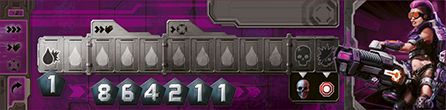
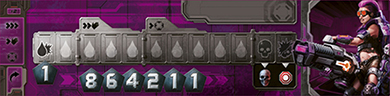
GUI smaller size

diff --git a/src/main/java/adrenaline/VirtualClientGUI.java b/src/main/java/adrenaline/VirtualClientGUI.java
@@ -41,7 +41,7 @@ public class VirtualClientGUI {
     ImageIcon imageB;
     Font font;
 
-    JTextField textField= new JTextField(42);
+    JTextField textField= new JTextField(30);
     JTextField messageTextField= new JTextField(42);
 
     public VirtualClientGUI(String serverAddress) {
@@ -61,10 +61,10 @@ public class VirtualClientGUI {
         Insets insets = frame.getContentPane().getInsets();
         textField.setSize(10,20);
         Dimension size = textField.getPreferredSize();
-        textField.setBackground(Color.black);
+        textField.setBackground(Color.DARK_GRAY);
         textField.setForeground(Color.WHITE);
         textField.setBorder(javax.swing.BorderFactory.createEmptyBorder());
-        textField.setBounds(1040 + insets.left, insets.top + 625,
+        textField.setBounds(790 + insets.left, insets.top + 505,
                 size.width, size.height);
         frame.getContentPane().add(textField, BorderLayout.SOUTH);
         textField.setEditable(true);
@@ -83,7 +83,7 @@ public class VirtualClientGUI {
         messageTextField.setForeground(Color.WHITE);
         messageTextField.setBackground(Color.BLACK);
         Insets insets = frame.getContentPane().getInsets();
-        messageTextField.setBounds(1040 + insets.left, insets.top + 605,
+        messageTextField.setBounds(790 + insets.left, insets.top + 485,
                 size.width, size.height);
         frame.getContentPane().add(messageTextField, BorderLayout.SOUTH);
         messageTextField.setBorder(javax.swing.BorderFactory.createEmptyBorder());
@@ -92,10 +92,10 @@ public class VirtualClientGUI {
     }
     public void setStartImage(){
         labelE = new JLabel(new ImageIcon("src\\main\\resources\\images\\adrenalin.jpg"), SwingConstants.CENTER);
-        labelE.setSize(1200,355);
+        labelE.setSize(879,260);
         Dimension size = labelE.getPreferredSize();
         Insets insets = frame.getContentPane().getInsets();
-        labelE.setBounds(150 + insets.left, insets.top + 250,
+        labelE.setBounds(216 + insets.left, insets.top + 220,
                 size.width, size.height);
         frame.getContentPane().add(labelE);
         labelE.repaint();
@@ -242,19 +242,19 @@ public class VirtualClientGUI {
             }
             playerBoards[index] = new JLabel(image, SwingConstants.CENTER);
 
-            playerBoards[index].setSize(446, 110);
+            playerBoards[index].setSize(390, 96);
 
             size = playerBoards[index].getPreferredSize();
-            playerBoards[index].setBounds(1054 + insets.left, insets.top + (index)*image.getIconHeight() + 250,
+            playerBoards[index].setBounds(922 + insets.left, insets.top + (index)*image.getIconHeight() + 220,
                     size.width, size.height);
             frame.getContentPane().add(playerBoards[index]);
             playerBoards[index].repaint();
             System.out.println(playerBoards[index].getLocation());
         }
         labelC = new JLabel(new ImageIcon("src\\main\\resources\\images\\area.jpg"), SwingConstants.CENTER);
-        labelC.setSize(446,250);
+        labelC.setSize(390,219);
         size = labelC.getPreferredSize();
-        labelC.setBounds(1054 + insets.left, insets.bottom,
+        labelC.setBounds(922 + insets.left, insets.bottom,
                 size.width, size.height);
         frame.getContentPane().add(labelC);
         labelC.repaint();
@@ -262,15 +262,15 @@ public class VirtualClientGUI {
 
         if(numberOfCommas!=4){
             labelD = new JLabel(new ImageIcon("src\\main\\resources\\images\\area.jpg"), SwingConstants.CENTER);
-            labelD.setSize(446,250);
+            labelD.setSize(390,219);
             size = labelC.getPreferredSize();
-            labelD.setBounds(1054 + insets.left, 550 + insets.top,
+            labelD.setBounds(922 + insets.left, 481 + insets.top,
                     size.width, size.height);
             frame.getContentPane().add(labelD);
             labelD.repaint();
         }
 
-        frame.setSize(1500 + frame.getInsets().right + frame.getInsets().left,800+ frame.getInsets().top+ frame.getInsets().bottom);
+        frame.setSize(1312 + frame.getInsets().right + frame.getInsets().left,700+ frame.getInsets().top+ frame.getInsets().bottom);
         frame.revalidate();
         frame.repaint();
         frame.setVisible(true);
@@ -297,14 +297,14 @@ public class VirtualClientGUI {
             playerNames[index].setBorder(javax.swing.BorderFactory.createEmptyBorder());
 
             size = playerNames[index].getPreferredSize();
-            playerNames[index].setBounds(1054 +35+ insets.left, insets.top + (index)*110 + 250 +10,
+            playerNames[index].setBounds(922 +35+ insets.left, insets.top + (index)*96 + 220 +10,
                     size.width, size.height);
             frame.getContentPane().add(playerNames[index]);
             playerNames[index].repaint();
             System.out.println(playerNames[index].getLocation());
         }
 
-        frame.setSize(1500 + frame.getInsets().right + frame.getInsets().left,800+ frame.getInsets().top+ frame.getInsets().bottom);
+        frame.setSize(1312 + frame.getInsets().right + frame.getInsets().left,700+ frame.getInsets().top+ frame.getInsets().bottom);
         frame.revalidate();
         frame.repaint();
         frame.setVisible(true);
@@ -314,7 +314,11 @@ public class VirtualClientGUI {
        ImageIcon img = new ImageIcon("src\\main\\resources\\images\\icon.jpg");
         frame.setIconImage(img.getImage());
         frame.getContentPane().setLayout(null);
-        frame.setSize(1500 + frame.getInsets().right + frame.getInsets().left,800+ frame.getInsets().top+ frame.getInsets().bottom);
+        frame.setSize(1312 + frame.getInsets().right + frame.getInsets().left,700+ frame.getInsets().top+ frame.getInsets().bottom);
+        System.out.println("top "+frame.getInsets().top);
+        System.out.println("bottom "+frame.getInsets().bottom);
+        System.out.println("left "+frame.getInsets().left);
+        System.out.println("right "+frame.getInsets().right);
         frame.getContentPane().setBackground(Color.black);
         frame.setResizable(false);
         Insets insets = frame.getContentPane().getInsets();
@@ -343,14 +347,14 @@ public class VirtualClientGUI {
             labelA = new JLabel(imageA, SwingConstants.CENTER);
             labelB = new JLabel(imageB, SwingConstants.CENTER);
 
-            labelA.setSize(560, 800);
-            labelB.setSize(560, 800);
+            labelA.setSize(434, 700);
+            labelB.setSize(488, 700);
 
             size = labelA.getPreferredSize();
             labelA.setBounds(insets.left, insets.top,
                     size.width, size.height);
             size = labelB.getPreferredSize();
-            labelB.setBounds(496 + insets.left, insets.top,
+            labelB.setBounds(434 + insets.left, insets.top,
                     size.width, size.height);
             frame.getContentPane().add(labelA);
             frame.getContentPane().add(labelB);
@@ -361,13 +365,13 @@ public class VirtualClientGUI {
         }
 
         size = messageArea.getPreferredSize();
-        messageArea.setBounds(1054 + insets.left, insets.bottom,
+        messageArea.setBounds(922 + insets.left, insets.bottom,
                 size.width, size.height);
 
         messageArea.setOpaque(false);
         messageArea.setForeground(Color.white);
 
-        messageArea.setSize(446,250);
+        messageArea.setSize(390,220);
         messageArea.setEditable(false);
         frame.getContentPane().add(messageArea);
         frame.setLocationRelativeTo(null);
